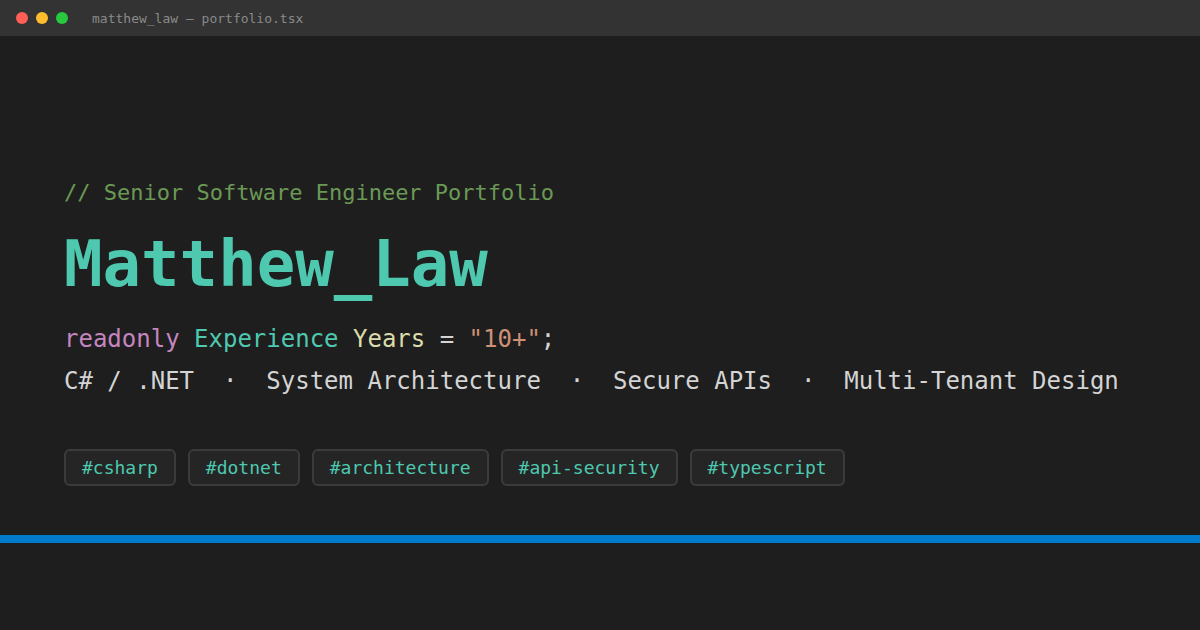
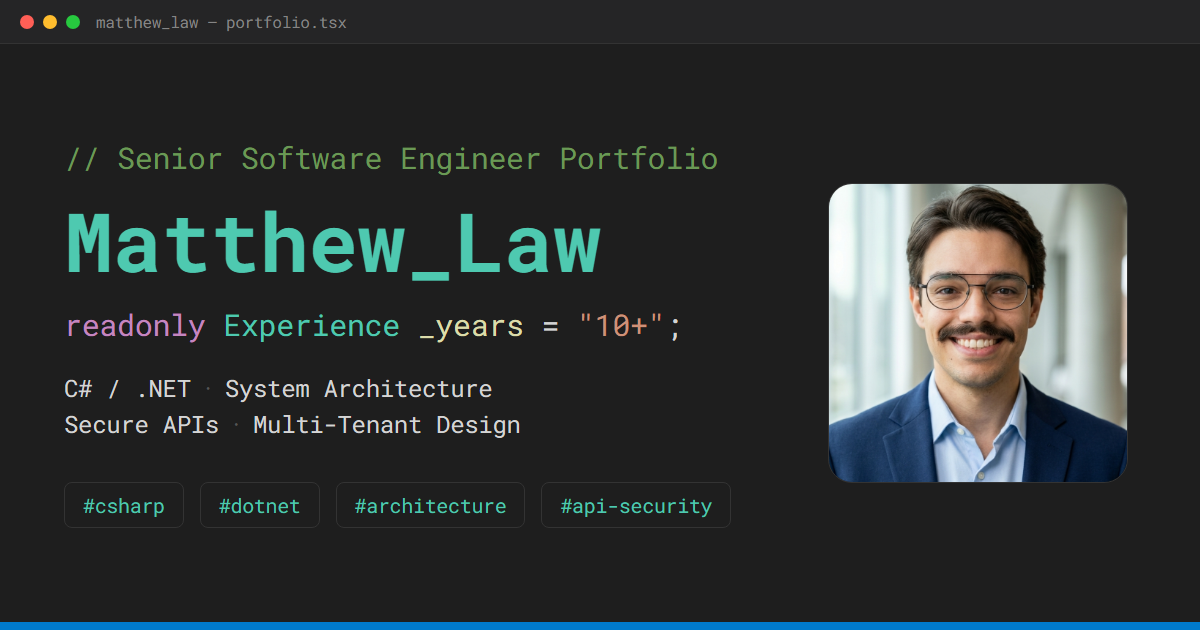
asset update

diff --git a/index.html b/index.html
@@ -42,7 +42,7 @@
   "@type": "Person",
   "name": "Matthew Law",
   "jobTitle": "Senior Software Engineer",
-  "image": "https://matthewclaw.github.io/profile/assets/img/matthew-law.jpg",
+  "image": "https://matthewclaw.github.io/profile/assets/img/matthew-law.png",
   "email": "Matthew.mcsd@gmail.com",
   "telephone": "+27 76 387 9572",
   "sameAs": [
@@ -170,7 +170,7 @@
             <header id="about" class="py-20 px-8 max-w-4xl">
                 <div class="section-fade visible">
                     <div class="flex flex-col md:flex-row md:items-start gap-6 md:gap-8 mb-8">
-                        <img src="assets/img/matthew-law.jpg"
+                        <img src="assets/img/matthew-law.png"
                             alt="Matthew Law, Senior Software Engineer" width="160" height="160"
                             style="border-color: var(--border-color)"
                             class="avatar-dark w-32 h-32 md:w-40 md:h-40 rounded-2xl object-cover border shadow-lg shrink-0">

diff --git a/util/compile_meta.js b/util/compile_meta.js
@@ -66,7 +66,7 @@ function generateJsonLd() {
     "@type": "Person",
     name,
     jobTitle: title,
-    image: "https://matthewclaw.github.io/profile/assets/img/matthew-law.jpg",
+    image: "https://matthewclaw.github.io/profile/assets/img/matthew-law.png",
     email,
     telephone: phone,
     sameAs: links,
